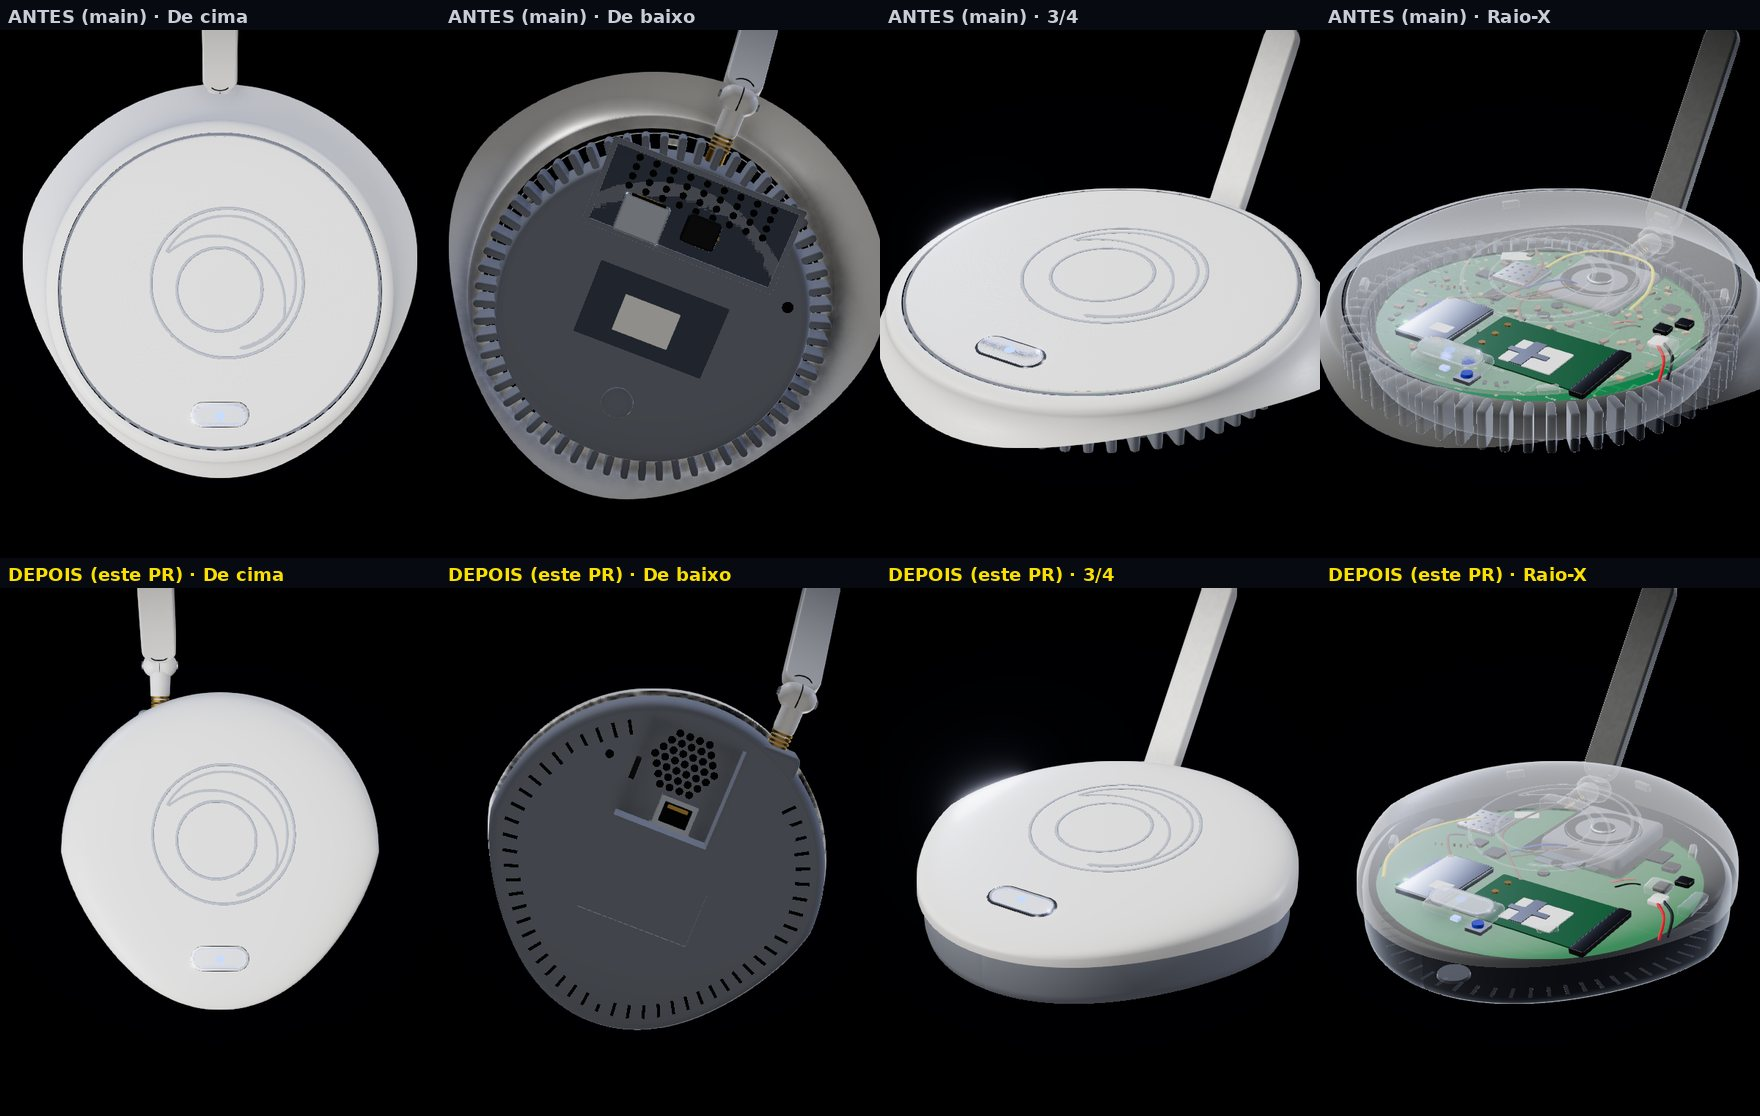
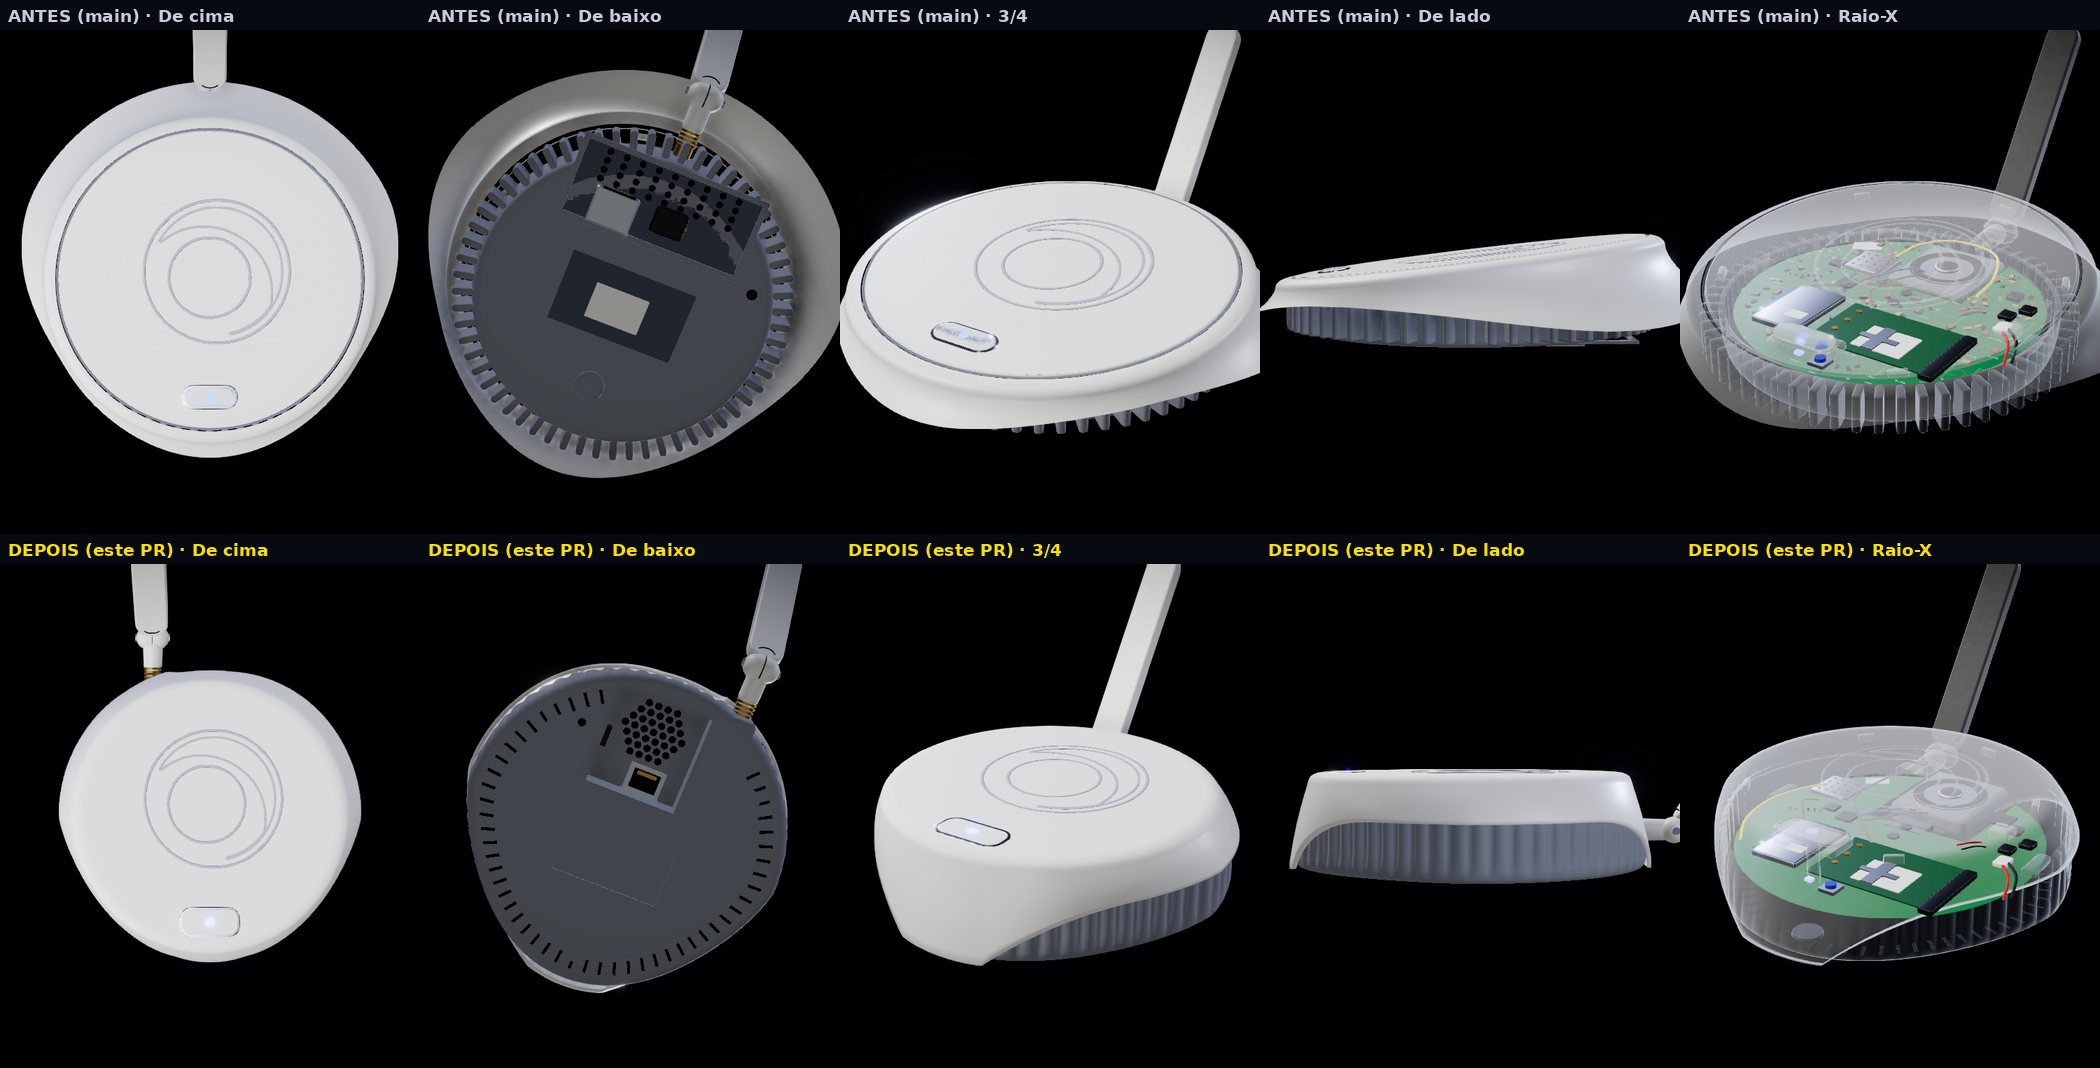
Docs, prints e imagem da abertura com o módulo em ponte e a sirene em copo
- docs/MODELAGEM.md: módulo (tampa em ponte, botão, LED, frisos da base)
  e sirene (copo numa peça só, LED na face)
- docs/prints/rodada-4-modulo.jpg: ganha a vista "De lado"
- docs/prints/rodada-4-sirene.jpg: ganha a vista "Por cima"
- public/poster.webp e poster-m.webp: regenerados do build, porque os
  dois aparelhos mudam de forma na abertura

Claude-Session: https://claude.ai/code/session_01JGedzfrxJd5vL5mskTPSnU

diff --git a/docs/MODELAGEM.md b/docs/MODELAGEM.md
@@ -7,14 +7,14 @@ Materiais: plástico branco acetinado #F1F2F4 com verniz leve e micro-textura (`
 ## Módulo de Comando (planta de 144 × 145 mm, 38 mm de altura; 1 un = 80 mm; frente em +Z)
 
 
-A tampa é uma superfície só (topo plano que desce para a lateral em curva contínua), no mesmo contorno em gota da base: redondo do lado da antena e afinando para uma ponta arredondada na frente. A base cinza é lisa, com fendas curtas de ventilação em volta, três pés baixos, o rebaixo raso da etiqueta (vazio) e o bolsão fundo no meio da borda de trás: grade de som em hexágono (37 furos) na face funda, RJ45 embaixo dela com a boca para quem olha o fundo e o jack da fonte na parede esquerda, a meia altura. A antena não sai do centro: fica num ressalto ao lado do bolsão (à direita de quem olha o fundo); o furo pequeno fica do outro lado.
+A tampa é uma superfície só: topo plano e nivelado (um disco redondo), canto arredondado e lateral que desce, abrindo, até o contorno em gota (redondo do lado da antena, afinando para uma ponta arredondada na frente). Vista de lado, a tampa é uma ponte: a borda de baixo vai até o fundo na frente (queixo) e atrás (cauda) e sobe em arco nos dois lados, onde aparece a base cinza. A base tem frisos verticais rasos na parede (os sulcos caem em cima das fendas do fundo e somem antes da borda de baixo), fendas curtas de ventilação em volta, três pés baixos, o rebaixo raso da etiqueta (vazio) e o bolsão fundo no meio da borda de trás: grade de som em hexágono (37 furos) na face funda, RJ45 embaixo dela com a boca para quem olha o fundo e o jack da fonte na parede esquerda, a meia altura. A antena não sai do centro: fica num ressalto ao lado do bolsão (à direita de quem olha o fundo); o furo pequeno fica do outro lado.
 | part.id | Como é modelada |
 |---|---|
-| `tampa` | Uma malha paramétrica só: topo plano, levemente caído para a frente, que desce para a lateral em curva contínua, com o logo em sulcos finos. Por dentro: bloco do guia de luz com furo de parafuso, ganchos e ressalto. |
-| `botao-sos` | A cápsula perto da borda da frente (eixo maior tangente à borda): aro cromado fino e guia de luz em cristal translúcido (o mesmo material das janelas de LED dos outros aparelhos). A peça inteira afunda enquanto o 190 é segurado. |
-| `led` | Ponto emissivo forte no centro da cápsula e halo fraco pelo contorno. |
+| `tampa` | Uma malha paramétrica só (`lidGeometry`), desenhada em dois trechos que dividem os vértices: o disco do topo, fosco, e a lateral, com brilho. A altura da borda de baixo em volta do contorno vem de `lidEdge` (queixo, arco, cauda e o recorte da antena). Logo em sulcos finos. Por dentro: bloco do guia de luz com furo de parafuso, ganchos e ressalto. |
+| `botao-sos` | Tecla branca de cantos redondos, rente à tampa, perto da borda da frente, com aro prateado fino. Embaixo dela, um pino de cristal (guia de luz) desce até a placa. A tecla afunda enquanto o 190 é segurado. |
+| `led` | Ponto emissivo pequeno e forte no centro da tecla (escuro quando apagado); o brilho em volta vem do bloom. |
 | `antena` | Conector dourado rosqueado, junta com pino (articulação) e pá extrudada com chanfro. Sai da base, atrás, fora do centro: num ressalto de face plana ao lado do bolsão. |
-| `base` | Base cinza: parede lisa no contorno em gota e fundo recortado (bolsão e etiqueta), numa malha só; fendas de ventilação em `InstancedMesh` (não há fenda atrás do bolsão nem do ressalto da antena). Acompanham: pés, furo pequeno, ressalto da antena e as duas travas da placa. |
+| `base` | Base cinza: parede com frisos verticais rasos no contorno em gota e fundo recortado (bolsão e etiqueta), numa malha só; onde a tampa cobre a base, a parede recua para dentro dela; fendas de ventilação em `InstancedMesh` (não há fenda atrás do bolsão nem do ressalto da antena). Acompanham: pés, furo pequeno, ressalto da antena e as duas travas da placa. |
 | `alto-falante` | Grade de 37 furos redondos em hexágono (`InstancedMesh`), na face funda do bolsão: de baixo, é o que mais aparece. |
 | `ethernet`, `fonte` | Porta de rede na face funda do bolsão, embaixo da grade; conector de energia na parede esquerda. |
 | `placa-principal` (i) | Placa verde limpa, com o recorte retangular no meio da borda de trás (onde passam o bolsão e o alto-falante): RJ45 no fundo do recorte, jack da fonte num dos braços, área de energia, pinos de teste, parafusos e etiqueta lisa. |
@@ -61,8 +61,8 @@ A traseira é uma placa branca plana, sem tampa extra: é o suporte que cobre es
 
 | part.id | Como é modelada |
 |---|---|
-| `corpo` | `LatheGeometry` de perfil suave: face plana, chanfro largo e lateral levemente cônica; linha de partição e logo em sulcos finos. |
-| `led` | Fenda na borda de baixo da face, virada para o chão. |
+| `corpo` | Um copo numa peça só (`LatheGeometry` com o perfil exato de `shellProfile`): face plana na frente, ombro arredondado e lateral que abre em curva suave até a parede. Não é cúpula e não tem emenda no meio. Logo em sulcos finos no centro da face. |
+| `led` | Janela pequena de cristal (~10 × 4 mm) na face, perto da borda, centralizada embaixo (6 horas): fica virada para o chão. |
 | `suporte` | Prato de parede: aro aberto em cima (é por onde a sirene desce), fundo extrudado com furo grande e recortes, canal vertical, travas e parafusos. A sirene não gira: desce na vertical e trava com um clique. |
 | `tamper` (i) | Micro-chave preta (~6 × 6 mm, com o botão no meio) numa plaquinha verde (~15 × 20 mm), à direita da traseira, logo abaixo do conector branco da bateria. O ressalto do suporte mantém o botão apertado; fora do suporte, ele sobe ~1 mm. |
 | `encaixe-suporte` (i) | Disco levemente elevado, anel e arcos no centro-baixo da traseira: plástico fixo, que centraliza a sirene no suporte. Não é o tamper. |
